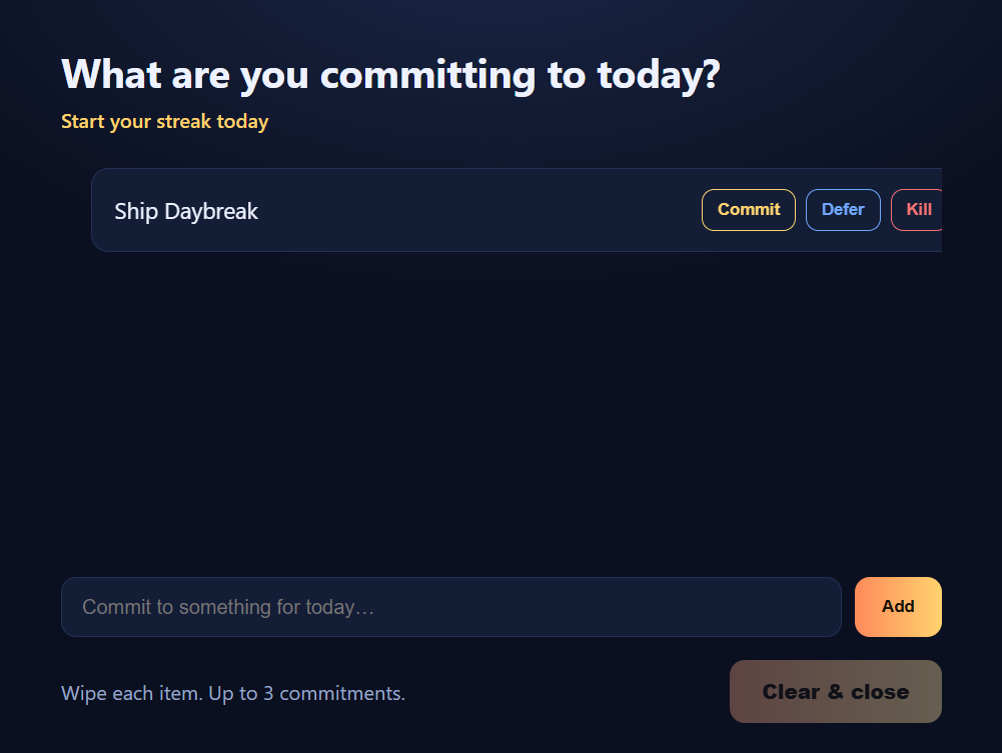
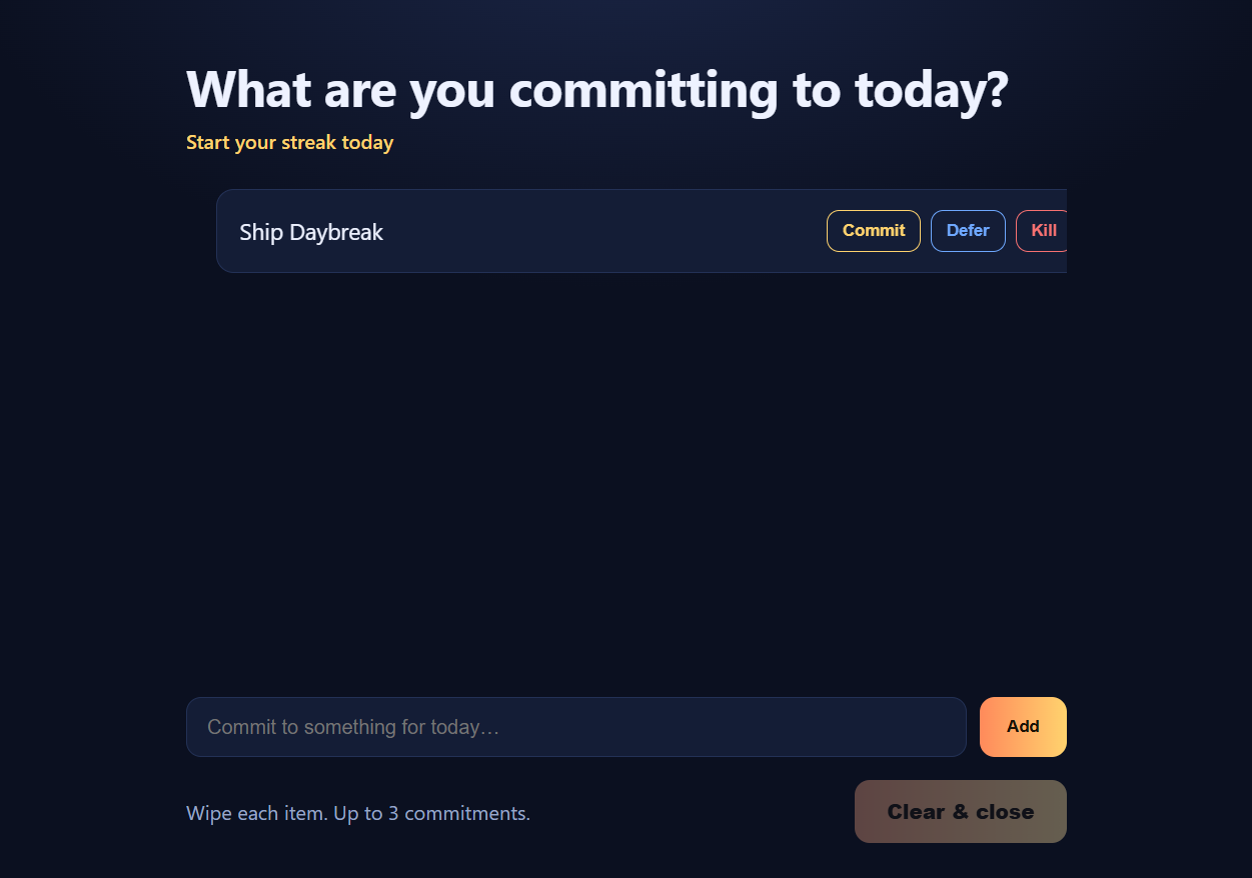
Widen product app capture

diff --git a/scripts/product-image-dimensions.test.ts b/scripts/product-image-dimensions.test.ts
@@ -1,0 +1,25 @@
+import { readFileSync } from "node:fs";
+import { describe, expect, it } from "vitest";
+
+function pngDimensions(path: string): { width: number; height: number } {
+  const bytes = readFileSync(path);
+  return {
+    width: bytes.readUInt32BE(16),
+    height: bytes.readUInt32BE(20),
+  };
+}
+
+describe("product image dimensions", () => {
+  it("keeps the real app capture wide enough for all wipe controls and aligned with site metadata", () => {
+    const image = pngDimensions("site/public/daybreak-app.png");
+    const page = readFileSync("site/app/page.tsx", "utf8");
+    const layout = readFileSync("site/app/layout.tsx", "utf8");
+
+    expect(image.width).toBeGreaterThanOrEqual(1200);
+    expect(image.height).toBeGreaterThanOrEqual(750);
+    expect(page).toContain(`width={${image.width}}`);
+    expect(page).toContain(`height={${image.height}}`);
+    expect(layout).toContain(`width: ${image.width}`);
+    expect(layout).toContain(`height: ${image.height}`);
+  });
+});

diff --git a/desktop/src/main/main.ts b/desktop/src/main/main.ts
@@ -25,6 +25,8 @@ const SMOKE = process.env.DAYBREAK_SMOKE === "1";
 const SMOKE_SCENARIO =
   process.env.DAYBREAK_SMOKE_SCENARIO === "evening" ? "evening" : "morning";
 const SMOKE_SCREENSHOT = process.env.DAYBREAK_SMOKE_SCREENSHOT;
+const SMOKE_SCREENSHOT_WIDTH = 1000;
+const SMOKE_SCREENSHOT_HEIGHT = 700;
 const SMOKE_DAY = "2026-06-22";
 const SMOKE_MORNING_NOW = `${SMOKE_DAY}T09:00:00`;
 const SMOKE_EVENING_NOW = `${SMOKE_DAY}T18:00:00`;
@@ -91,8 +93,8 @@ function createWindow(): void {
   win = new BrowserWindow({
     // Smoke mode: small, hidden, non-intrusive so CI / verification never
     // hijacks the screen. Production: full-screen kiosk that owns the morning.
-    width: SMOKE ? 800 : width,
-    height: SMOKE ? 600 : height,
+    width: SMOKE ? (SMOKE_SCREENSHOT ? SMOKE_SCREENSHOT_WIDTH : 800) : width,
+    height: SMOKE ? (SMOKE_SCREENSHOT ? SMOKE_SCREENSHOT_HEIGHT : 600) : height,
     show: !SMOKE,
     fullscreen: !SMOKE,
     frame: false,

diff --git a/site/app/layout.tsx b/site/app/layout.tsx
@@ -28,8 +28,8 @@ export const metadata: Metadata = {
     images: [
       {
         url: SITE_IMAGE,
-        width: 1002,
-        height: 753,
+        width: 1252,
+        height: 878,
         alt: "Daybreak Windows app showing a morning commitment ready to be wiped",
       },
     ],

diff --git a/site/app/page.tsx b/site/app/page.tsx
@@ -63,8 +63,8 @@ export default function Home() {
         <figure className="product-shot">
           <Image
             src={`${basePath}/daybreak-app.png`}
-            width={1002}
-            height={753}
+            width={1252}
+            height={878}
             alt="Daybreak Windows app showing a morning commitment ready to be wiped"
             priority
           />

diff --git a/docs/COMPLETION.md b/docs/COMPLETION.md
@@ -8,10 +8,10 @@ fabricated proof**.
 
 | Item | Evidence |
 | --- | --- |
-| Core mechanic works and is tested | `vitest run` -> **218 tests, 28 files passed** (wipe machine, carry-over, morning commit gate, same-day migration, session selection, swipe gesture policy, IPC log-update validation, desktop shell policy, desktop renderer CSP policy, startup policy, persisted-shape validation, persistence recovery, consecutive history-backed streak summary, commit validation, external-link policy, market-signal policy, readiness URL proof, launch verifier, release preflight, packaged release smoke suite, core package importability, static site metadata export, proof-backed public checkout/download state, legal checkout copy state, sensitive proof-data rejection, Pages workflow proof/dependency redeploy triggers, dependency security posture, CI workflow coverage, root desktop launch contract, README launch handoff contract, smoke screenshot stabilization contract, GitHub Pages health verifier, local-only telemetry guard, signed-installer timestamp proof) |
+| Core mechanic works and is tested | `vitest run` -> **219 tests, 29 files passed** (wipe machine, carry-over, morning commit gate, same-day migration, session selection, swipe gesture policy, IPC log-update validation, desktop shell policy, desktop renderer CSP policy, startup policy, persisted-shape validation, persistence recovery, consecutive history-backed streak summary, commit validation, external-link policy, market-signal policy, readiness URL proof, launch verifier, release preflight, packaged release smoke suite, core package importability, static site metadata export, proof-backed public checkout/download state, legal checkout copy state, sensitive proof-data rejection, Pages workflow proof/dependency redeploy triggers, dependency security posture, CI workflow coverage, root desktop launch contract, README launch handoff contract, smoke screenshot stabilization contract, product image dimension contract, GitHub Pages health verifier, local-only telemetry guard, signed-installer timestamp proof) |
 | App actually launches and completes the wipe flows | From repo root in PowerShell, `$env:DAYBREAK_SMOKE = "1"; npx electron .` -> `scenario=morning swipe_flow=true`, exit 0; `$env:DAYBREAK_SMOKE = "1"; npm start` -> `scenario=morning swipe_flow=true`, exit 0; `$env:DAYBREAK_SMOKE = "1"; npm exec -w @daybreak/desktop -- electron .` -> `scenario=morning swipe_flow=true`, exit 0; `$env:DAYBREAK_SMOKE = "1"; $env:DAYBREAK_SMOKE_SCENARIO = "evening"; npm exec -w @daybreak/desktop -- electron .` -> `scenario=evening swipe_flow=true streak_summary=true`, exit 0 |
 | README distinguishes dev launch from packaged launch | `scripts/readme-launch-contract.test.ts` requires the README to document root `npm start`, direct `desktop\release\win-unpacked\Daybreak.exe` launch after packaging, and the fact that a global `electron` command is not the supported packaged-app path |
-| Landing page shows the real desktop app | From `desktop/`, `DAYBREAK_SMOKE=1 DAYBREAK_SMOKE_COMMIT_TEXT="Ship Daybreak" DAYBREAK_SMOKE_SCREENSHOT=../site/public/daybreak-app.png npx electron .` -> `scenario=morning swipe_flow=true screenshot=true`, exit 0; the PNG is generated from the Electron app, not drawn as a mockup, and the smoke harness stabilizes transient swipe transforms before capture |
+| Landing page shows the real desktop app | From `desktop/`, `DAYBREAK_SMOKE=1 DAYBREAK_SMOKE_COMMIT_TEXT="Ship Daybreak" DAYBREAK_SMOKE_SCREENSHOT=../site/public/daybreak-app.png npx electron .` -> `scenario=morning swipe_flow=true screenshot=true`, exit 0; the PNG is generated from the Electron app, not drawn as a mockup, the smoke harness stabilizes transient swipe transforms before capture, and `scripts/product-image-dimensions.test.ts` verifies the capture is wide enough for the wipe controls while matching site metadata |
 | Un-closable invariant enforced | `desktop/src/main/main.ts` `close` handler plus `validateLogUpdate()` and `canDismiss()` re-validated against the active main-process session |
 | Desktop shell is contained | BrowserWindow uses context isolation, no node integration, `sandbox: true`, denied new windows, and a core-tested file-navigation allowlist |
 | Desktop renderer CSP is strict and repeatable | Core owns the renderer Content Security Policy, `desktop/src/renderer/index.html` uses that exact policy, and `scripts/desktop-renderer-security.test.ts` rejects drift toward inline script/style, remote fetch, forms, object content, or broad default sources |

diff --git a/docs/PREMORTEM.md b/docs/PREMORTEM.md
@@ -48,6 +48,7 @@ counts, screenshots, or testimonials.
 | Public launch status overclaims preview health | Once the custom domain redirects the project preview, saying the GitHub Pages preview is simply online can conflict with `verify:launch` while HTTPS is still pending. | The status section now says `daybreak.rest` serves over HTTP while GitHub Pages provisions HTTPS, and `scripts/site-export-metadata.test.ts` proves the exported homepage does not contain the old overclaim. |
 | Sale page has no product visual | A text-only product page asks buyers to trust copy without seeing the actual Windows ritual. | The landing page now uses an Electron smoke-captured PNG from the current desktop build, with deterministic text and no fabricated mockup. |
 | Sale page visual captures a half-swiped row | A real app screenshot can still look broken if the smoke harness captures while a row is visually translated from the gesture proof. | Smoke capture now clears transient swipe transforms and preview classes before `capturePage()`, `scripts/smoke-screenshot-contract.test.ts` guards that order, and the public PNG was regenerated from the patched Electron app. |
+| Sale page app visual clips the wipe controls | A too-narrow app capture can make the embedded Windows UI look broken on desktop and mobile, even when the real app works. | The public screenshot capture now uses a wider smoke viewport, the PNG was regenerated at 1252x878, and `scripts/product-image-dimensions.test.ts` keeps the image and site metadata dimensions aligned. |
 | Critical production dependency advisories | A sale page should not ship on a known critical Next.js audit set. | Upgraded Next and `eslint-config-next` from `15.1.6` to `15.5.19`; migrated linting from deprecated `next lint` to direct ESLint CLI. |
 | Nested PostCSS advisory remains under Next | Next `15.5.19` declares `postcss@8.4.31`, so the lockfile could keep a moderate `postcss <8.5.10` advisory even though the app exports static HTML. | Added a site-level `postcss@8.5.15` dependency plus a root npm override for Next's PostCSS edge; regenerated the lockfile from manifests; added `scripts/dependency-security.test.ts` so `npm run check` rejects locked PostCSS packages below `8.5.10`; `npm audit --omit=dev --audit-level=moderate` now reports `found 0 vulnerabilities`. |
 | Random 200 OK file satisfies installer readiness | A mistyped, stale, or spoofed download URL could look sale-ready even if it is not the signed Daybreak installer. | `verify:readiness` now requires `DOWNLOAD_SHA256` and hashes the fetched installer bytes before the installer gate can pass. |